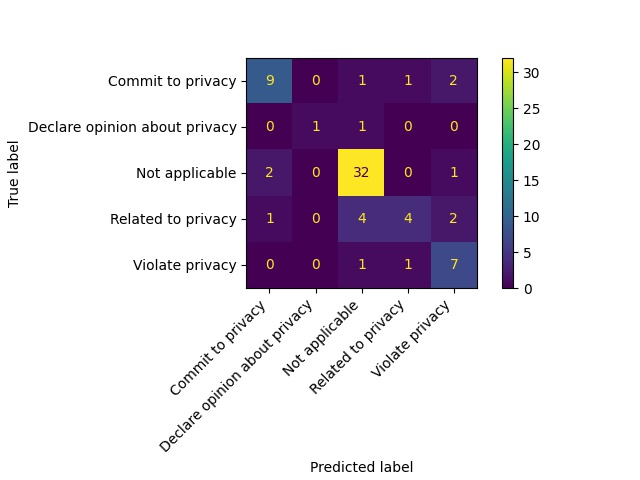
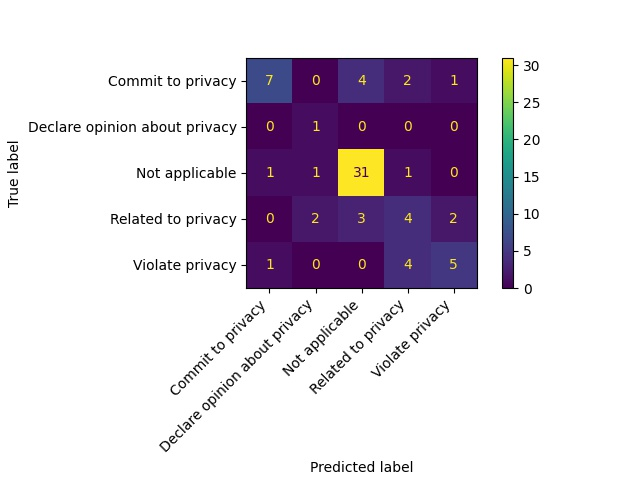
svc test set one vs one c 0.05

diff --git a/AIclassifier.py b/AIclassifier.py
@@ -239,8 +239,8 @@ test_labels_primary = create_labels_array(labels_test)
 # RIDGE REGRESSION CLASSIFIER
 #ridge_classifier = RidgeClassifier()
 #sgd_classifier = make_pipeline(StandardScaler(),SGDClassifier(max_iter=1000, tol=1e-3))#, random_state=1111111))
-#svc_classifier = make_pipeline(StandardScaler(), OneVsRestClassifier(LinearSVC(dual=False,random_state=None, tol=1e-5, C=0.05)))
-svc_classifier = make_pipeline(StandardScaler(), OneVsOneClassifier(LinearSVC(dual=False,random_state=None, tol=1e-5, C=0.05)))
+svc_classifier = make_pipeline(StandardScaler(), OneVsRestClassifier(LinearSVC(dual=False,random_state=None, tol=1e-5, C=0.05)))
+#svc_classifier = make_pipeline(StandardScaler(), OneVsOneClassifier(LinearSVC(dual=False,random_state=None, tol=1e-5, C=0.05)))
 
 # FLAG - CHECK WHICH CONFIGURATIONS SHOULD BE HERE - checked
 
@@ -299,8 +299,8 @@ model = svc_classifier.fit(train_matrix_array, train_labels_primary)
 #    print('Feature:',feature[1],'Score:',feature[0])
 
 # Predicting
-predictions = model.predict(dev_matrix_array)
-#predictions = model.predict(test_matrix_array)
+#predictions = model.predict(dev_matrix_array)
+predictions = model.predict(test_matrix_array)
 
 # casually printing results
 #for sent, pred in zip(sents_train,predictions):
@@ -314,25 +314,25 @@ pred_list = [pred for pred in predictions]
 labels=[1,3,5,4,2]
 path='output/AI Classifier/1Label_confusion_matrix_NormTrue.jpg'
 display_labels=['Commit to privacy', 'Declare opinion about privacy','Not applicable','Related to privacy','Violate privacy']
-create_confusion_matrix(dev_list, pred_list, "true", path, labels, display_labels)
-#create_confusion_matrix(test_list, pred_list, "true", path, labels, display_labels)
+#create_confusion_matrix(dev_list, pred_list, "true", path, labels, display_labels)
+create_confusion_matrix(test_list, pred_list, "true", path, labels, display_labels)
 path='output/AI Classifier/1Label_confusion_matrix_NonNorm.jpg'
-create_confusion_matrix(dev_list, pred_list, None, path, labels, display_labels)
-#create_confusion_matrix(test_list, pred_list, None, path, labels, display_labels)
+#create_confusion_matrix(dev_list, pred_list, None, path, labels, display_labels)
+create_confusion_matrix(test_list, pred_list, None, path, labels, display_labels)
 
 # FLAG - CHECK IF CONFUSION MATRIX IS CORRECT FOR EVERY LABEL
 #path='output/AI Classifier/1labelSGDPredictionsStatsDev.txt'
 #path='output/AI Classifier/1labelRidgePredictionsStatsDev.txt'
-path='output/AI Classifier/1labelPredictionsStatsDev.txt'
-#path='output/AI Classifier/1labelPredictionsStatsTest.txt'
+#path='output/AI Classifier/1labelPredictionsStatsDev.txt'
+path='output/AI Classifier/1labelPredictionsStatsTest.txt'
 os.makedirs(os.path.dirname(path), exist_ok=True)
 with open(path, 'w') as file:
     print("Performance measures - Unigram Dictionary - SVC\n", file=file)
     #print("Performance measures - Mixed Dictionary - Adaboost\n", file=file)
     #print("Performance measures - Bigram Dictionary\n", file=file)
 #write_output_stats_file(path, "Mixed", test_labels_primary, predictions, labels)
-write_output_stats_file(path, "Dev", dev_labels_primary, predictions, labels)
-#write_output_stats_file(path, "Test", test_labels_primary, predictions, labels)
+#write_output_stats_file(path, "Dev", dev_labels_primary, predictions, labels)
+write_output_stats_file(path, "Test", test_labels_primary, predictions, labels)
 
 # TO DO: WRITE PREDICTIONS JSON FILE -> LEARN HOW TO TRANSFORM ADABOOST OUTPUT IN DICT ( LIST OF ({"text":sentence['text'], "label":label}))
 #write_predictions_file("Dev", dev_pred_dict)
